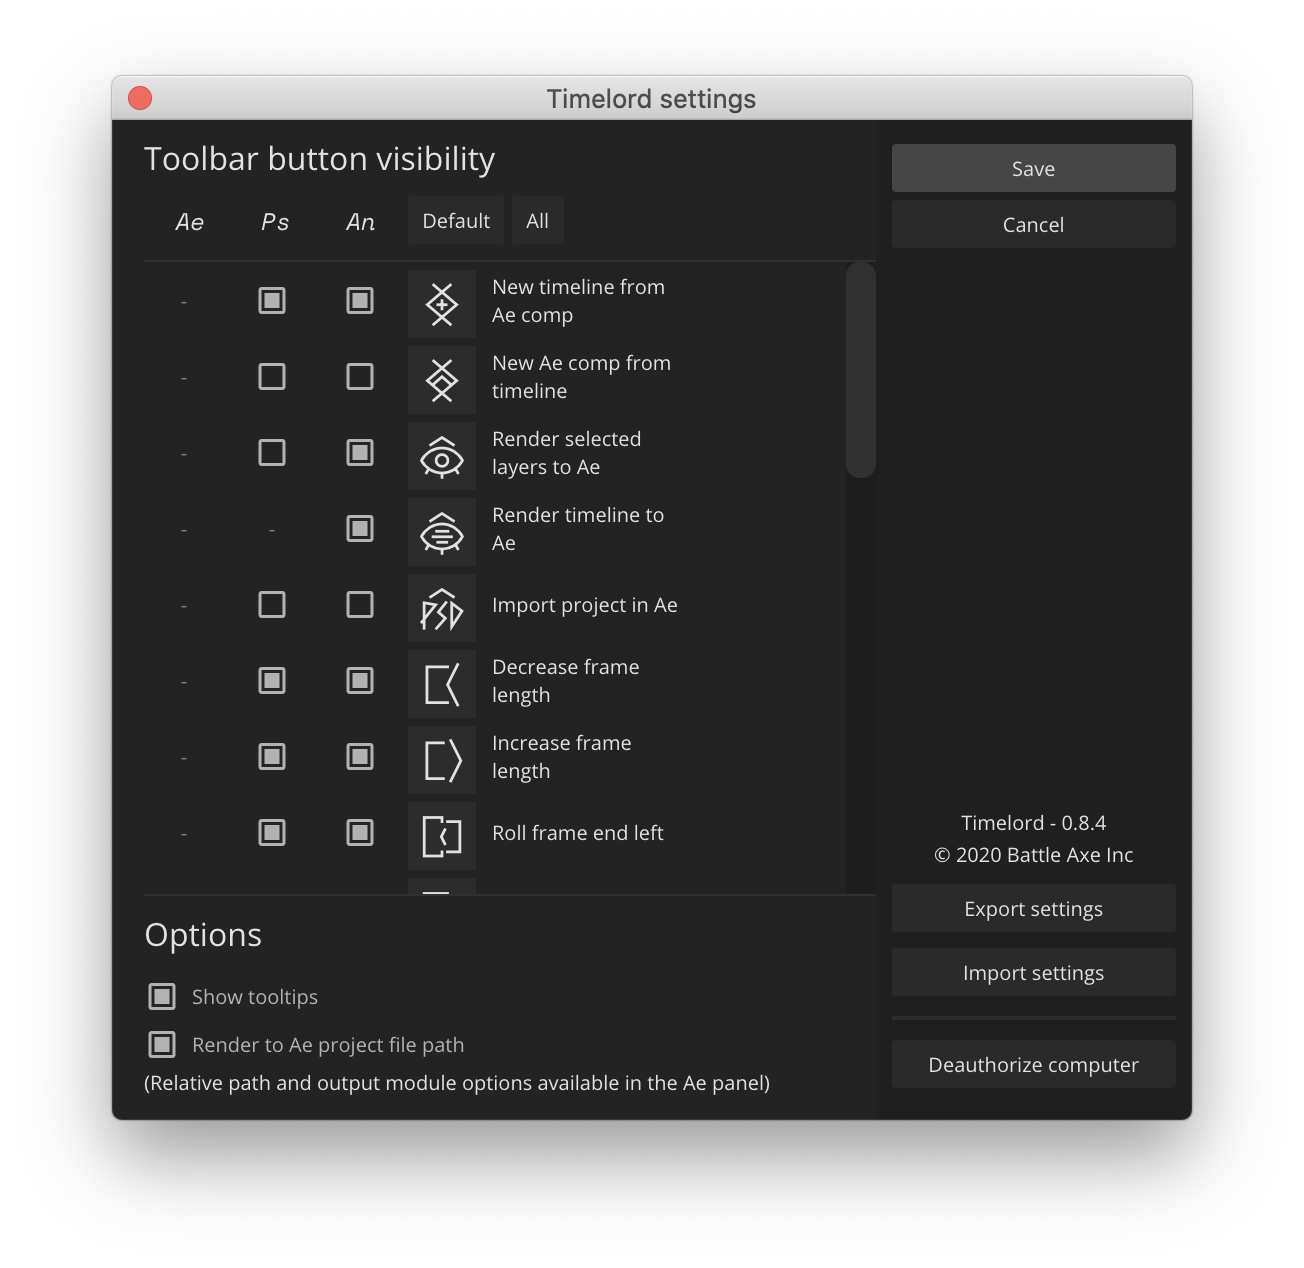
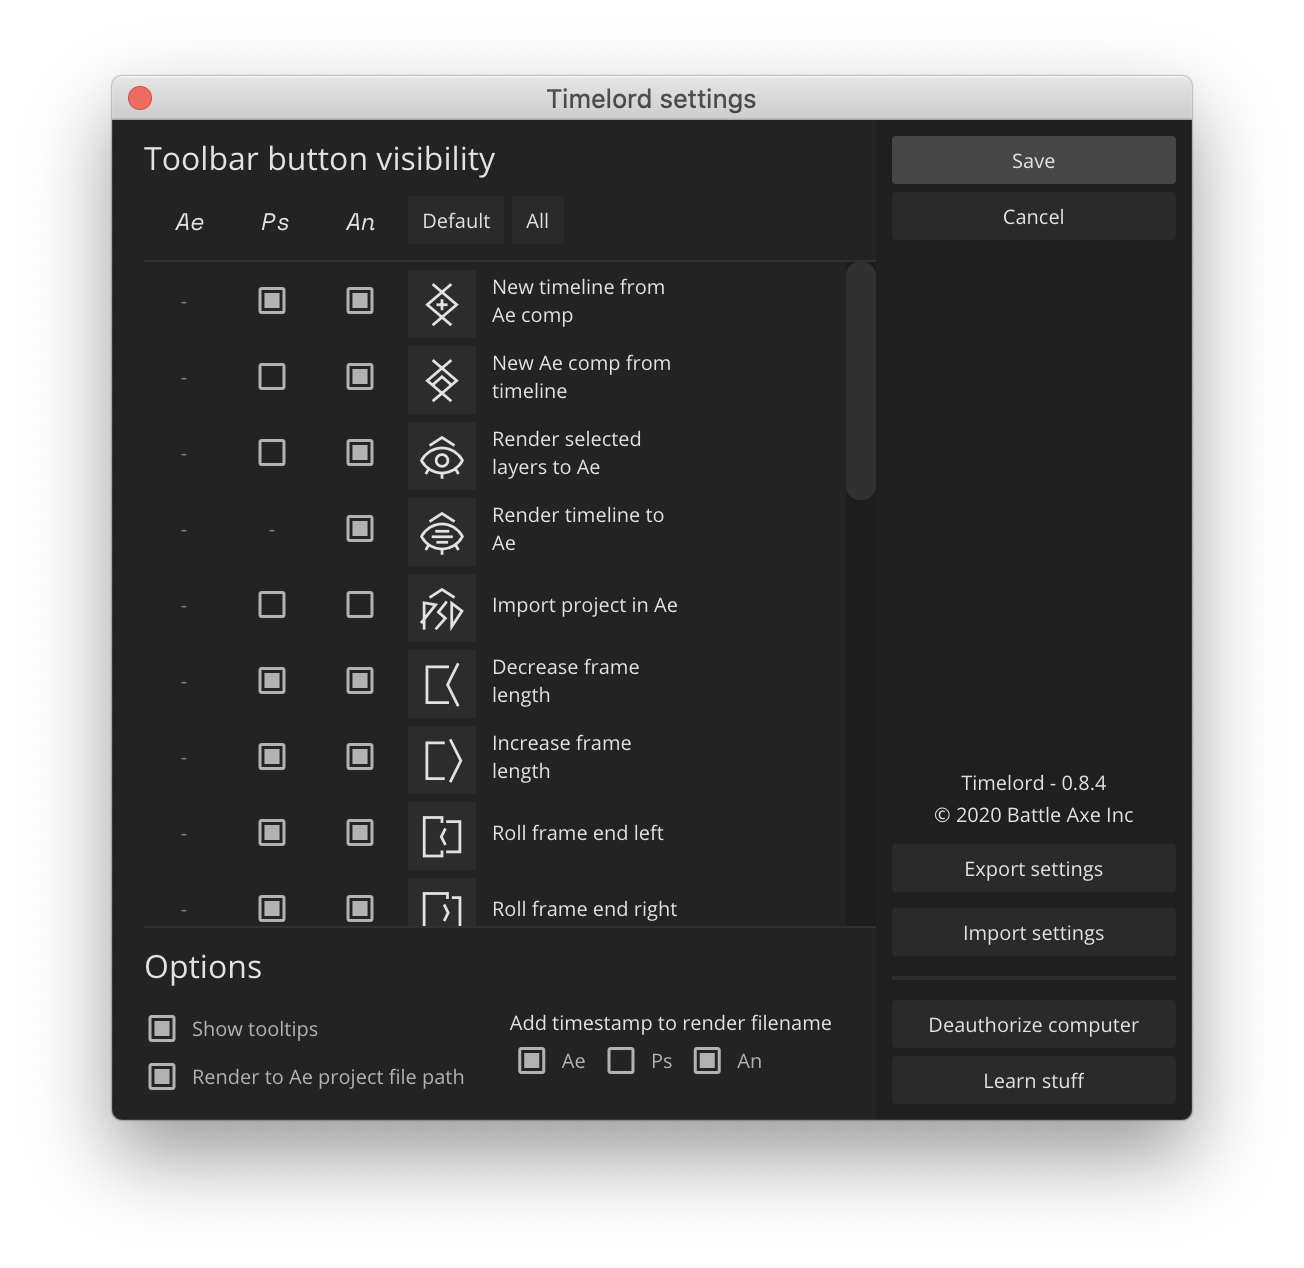
0.8.5

diff --git a/docs/.vuepress/config.js b/docs/.vuepress/config.js
@@ -90,6 +90,7 @@ module.exports = {
             'workflow',
             'transfer',
             'frame-tools',
+            'settings',
             'changelog',
           ]
         },  

diff --git a/docs/rubberhose2/addons.md b/docs/rubberhose2/addons.md
@@ -4,7 +4,7 @@
 ### Tapered stroke 2020
 <Screenshot 
     url="/rubberhose2/addons-taper2020.gif" 
-    alt="RH2 Tapered hose 2020"
+    alt="RH2 styles - Tapered hose 2020"
     width="350px" 
     left />
 
@@ -12,7 +12,7 @@ Since its release in 2017, RubberHose 2 has done its best to create tapered hose
 
 Included with [v2.11](changelog.html#_2-11). Lookup and [download](http://license.battleaxe.co) the update, then [reset](manage.html#reset-everything) the script to install the update. 
 
-<a href="http://battleaxe.co/overlord" class="nav-link action-button">Download</a>
+<a href="./download/TaperedStroke-2020.zip" class="nav-link action-button">Download</a>
 
 <br />
 
@@ -20,25 +20,37 @@ Included with [v2.11](changelog.html#_2-11). Lookup and [download](http://licens
 
 <Screenshot 
     url="/rubberhose2/addons-kirby.gif" 
-    alt="RH2 build buttons"
+    alt="RH2 styles - Steve Kirby"
     width="350px" 
     right />
 
 Many thanks to [Steve](https://stevekirby.co.uk/) for creating these super high quality styles and sharing with all the kind people on internet.
 
-<a href="http://battleaxe.co/overlord" class="nav-link action-button">Download</a>
+<a href="./download/SteveKirby_RH2_Styles.zip" class="nav-link action-button">Download</a>
 
 <br />
 
-## Hose builder
+## Hose Maker
 <Screenshot 
-    url="/rubberhose2/addon-taper2020.gif" 
-    alt="RH2 build buttons"
-    width="350px" 
+    url="/rubberhose2/addons-hosemaker.gif" 
+    alt="RH2 Hose maker"
+    width="480px" 
     left />
 
-Since its release in 2017, RubberHose 2 has done its best to create tapered hoses with a lot of weird workarounds. It ran slow and was unable to create the contrast of thick to thin that so many animators were looking for. 
+[Kyle Martinez ](https://twitter.com/kyletmartinez) shares some really [amazing tools](https://gumroad.com/kyletmartinez). Together with [Hernan Torrisi](https://twitter.com/airnanan), they've put together a really good way to replicate limbs of characters drawn in Illustrator. While it is not possible to convert a path into a hose, this does the next best thing. The script measures the path length, finds the controller positions and recolors the hose to match the art layer. This is a headless script to be used with a script launcher like [KBar](https://aescripts.com/kbar/).
 
-This is a small simple update I'm really happy to share it with you all. 
+<br />
 
-<a href="http://battleaxe.co/overlord" class="nav-link action-button">Download</a>
+*Option:* Hold ALT on the keyboard to reverse the controller order. Helpful if the art was drawn from the bottom up. 
+
+It may be necessary to reposition the controllers within the comp to correctly align with the art. This depends on how the art was set up, how it was imported into After Effects, and transforms that may have been done after importing.
+
+Hose Maker cannot replicate outlined shapes or tapered strokes from Illustrator. It's pretty magical, but AE can only do so much.
+
+### Usage
+- Convert an Illustrator layer to Shape Layer
+- Select the desired hose and new Shape Layer
+- Run the script
+- Reposition control points as needed
+
+<a href="./download/HoseMaker_1.0.zip" class="nav-link action-button">Download</a>

diff --git a/docs/timelord/settings.md b/docs/timelord/settings.md
@@ -1,0 +1,50 @@
+# Settings
+
+<Screenshot 
+    url="/timelord/icon/settings.svg" 
+    alt="Frame duration" 
+    toolbar />
+
+### Show settings
+Click the settings button on the Ps/An toolbars or right-click any pf the panels to open Settings
+
+<Screenshot 
+    url="/timelord/settings.png" 
+    alt="All Ps buttons" 
+    width="auto"
+ />
+
+## Customize toolbar
+
+Hide and show buttons and build the toolbar that best supports your work and muscle memory. These settings may be exported/imported for use on different computers.
+
+### Default buttons (An)
+
+<Screenshot 
+    url="/timelord/toolbar-default-an.png" 
+    alt="Default An buttons" 
+    width="440px"
+ />
+
+### All buttons (Ps)
+
+<Screenshot 
+    url="/timelord/toolbar-all-ps.png" 
+    alt="All Ps buttons" 
+ />
+
+## Options
+
+### Add timestamp to render filename
+
+Adobe apps do a lot behind the scenes to cache what you need, but sometimes they fail to update when you replace footage. If you find renders not updating enable timestamps for exporting app. Exported files will have a timestamp added to the end so the importing app sees it as a fresh file. 
+
+The timestamp is made up 2 digits for the year, month, date, hour, minute, second. 
+
+`2020, July 30, 3:37:30pm` becomes `LayerName_200730-153730.swf`
+
+### Tooltips
+This one is personal preference. No judgment either way.
+
+### Render to Ae project file path
+The same control as on the [After Effects](./transfer.html#manual-export-path) panel.

diff --git a/docs/timelord/workflow.md b/docs/timelord/workflow.md
@@ -34,7 +34,7 @@ Photoshop and Animate's Timelord panels do not need to to be visible in order to
 
 ### New comp
 
-[Hidden by default](#customize-toolbar), it is also possible to create a new comp to match your open Ps/An timeline if you prefer to start projects by drawing. 
+[Hidden by default](settings.html#customize-toolbar), it is also possible to create a new comp to match your open Ps/An timeline if you prefer to start projects by drawing. 
 
 
 
@@ -82,29 +82,3 @@ Yep, that's possible too.
 Most of Timelord's buttons are used to work with frames-by-frame animation. Buttons are designed to add new functionality and simplify common tasks while creating as much of a uniform experience between Photoshop and Animate as possible.
 
 [Read more about each frame tool](./frame-tools) →
-
-## Customize toolbar
-
-Hide and show buttons by right clicking any Timelord panel > **Settings**. These settings may be exported/imported for use on different computers.
-
-<Screenshot 
-    url="/timelord/settings.png" 
-    alt="All Ps buttons" 
-    width="auto"
- />
-
-### Default buttons (An)
-
-<Screenshot 
-    url="/timelord/toolbar-default-an.png" 
-    alt="Default An buttons" 
-    width="425px"
- />
-
-### All buttons (Ps)
-
-<Screenshot 
-    url="/timelord/toolbar-all-ps.png" 
-    alt="All Ps buttons" 
-    width="734px"
- />

diff --git a/docs/timelord/transfer.md b/docs/timelord/transfer.md
@@ -159,7 +159,7 @@ If you misplace where the relative path is located on your drive, **SHIFT** clic
     toolbar />
 
 ## Render full timeline (An only) 
-Some workflows may prefer to export a SWF of your full timeline rather than individual layers. This button is [hidden by default](workflow.html#customize-toolbar)
+Some workflows may prefer to export a SWF of your full timeline rather than individual layers. This button is [hidden by default](settings.html#customize-toolbar). Via [Johannes Fast](https://www.instagram.com/johanimation)
 
 
 <Screenshot 
@@ -169,7 +169,7 @@ Some workflows may prefer to export a SWF of your full timeline rather than indi
 
 ## Import full PSD/FLA files
 
-This behavior goes against some of the proposed Timelord conventions but hey, it's your project. Work how you want. These buttons are [hidden by default](workflow.html#customize-toolbar).
+This behavior goes against some of the proposed Timelord conventions but hey, it's your project. Work how you want. These buttons are [hidden by default](settings.html#customize-toolbar).
 
 ### PSD → Ae
 

diff --git a/docs/timelord/changelog.md b/docs/timelord/changelog.md
@@ -9,6 +9,7 @@ Released: July 24, 2020
 ### Fixed
 - An imported mp4 added at frame zero
 - Ps render cancel if no layers selected
+- An frame clear for multiple selected frames
 
 ## 0.8.4
 Released: July 24, 2020
